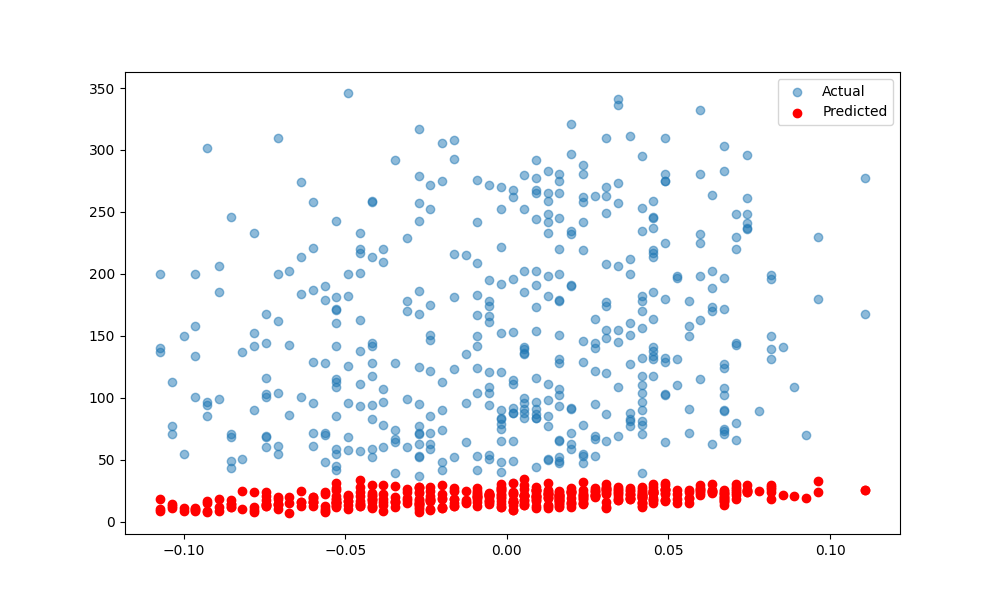
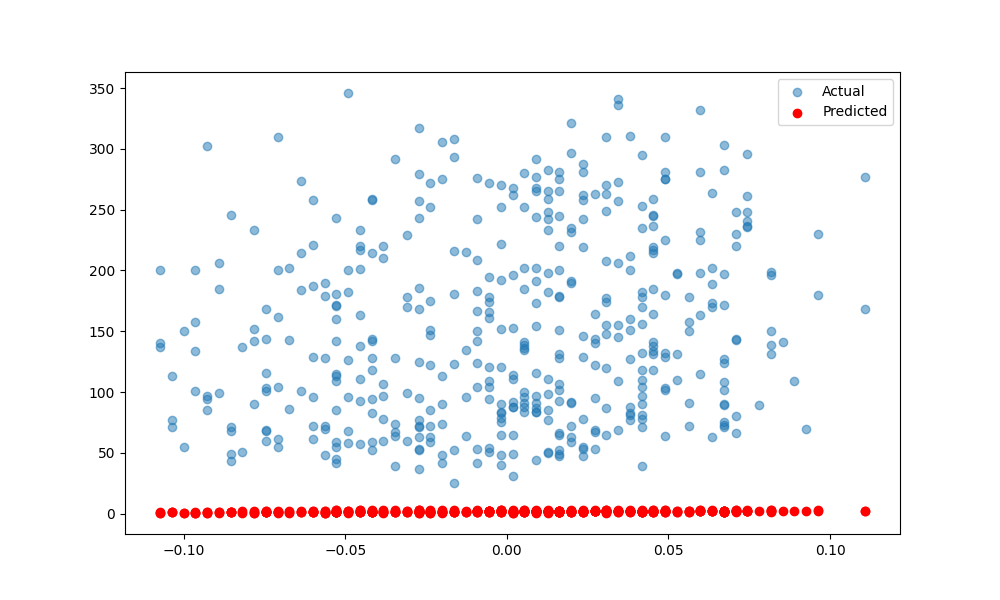
testing testing

diff --git a/src/run_analysis.py b/src/run_analysis.py
@@ -6,7 +6,7 @@ import torch
 # 1. Setup
 X, y = get_prepared_data()
 model = LinearModel(input_dim=X.shape[1])
-optimizer = torch.optim.Adam(model.parameters(), lr=0.1)
+optimizer = torch.optim.Adam(model.parameters(), lr=0.01)
 criterion = torch.nn.MSELoss()
 
 # 2. Training Loop

diff --git a/src/model.py b/src/model.py
@@ -10,6 +10,7 @@ class LinearModel(nn.Module):
         return self.linear(x)
 
 def train_one_step(model, X, y, optimizer, criterion):
+    
     optimizer.zero_grad()
     outputs = model(X)
     loss = criterion(outputs, y)
